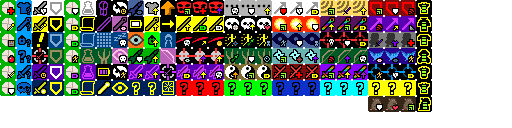
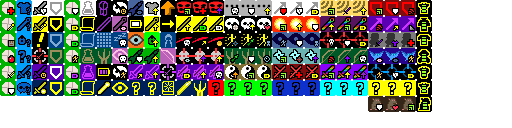
v3.0.0: added the holy lance spell

Changed region(s): [[0.3438, 0.625, 0.4062, 0.75]]

diff --git a/core/src/main/java/com/shatteredpixel/shatteredpixeldungeon/actors/hero/spells/HolyLance.java b/core/src/main/java/com/shatteredpixel/shatteredpixeldungeon/actors/hero/spells/HolyLance.java
@@ -1,0 +1,169 @@
+/*
+ * Pixel Dungeon
+ * Copyright (C) 2012-2015 Oleg Dolya
+ *
+ * Shattered Pixel Dungeon
+ * Copyright (C) 2014-2024 Evan Debenham
+ *
+ * This program is free software: you can redistribute it and/or modify
+ * it under the terms of the GNU General Public License as published by
+ * the Free Software Foundation, either version 3 of the License, or
+ * (at your option) any later version.
+ *
+ * This program is distributed in the hope that it will be useful,
+ * but WITHOUT ANY WARRANTY; without even the implied warranty of
+ * MERCHANTABILITY or FITNESS FOR A PARTICULAR PURPOSE.  See the
+ * GNU General Public License for more details.
+ *
+ * You should have received a copy of the GNU General Public License
+ * along with this program.  If not, see <http://www.gnu.org/licenses/>
+ */
+
+package com.shatteredpixel.shatteredpixeldungeon.actors.hero.spells;
+
+import com.shatteredpixel.shatteredpixeldungeon.Assets;
+import com.shatteredpixel.shatteredpixeldungeon.Dungeon;
+import com.shatteredpixel.shatteredpixeldungeon.actors.Actor;
+import com.shatteredpixel.shatteredpixeldungeon.actors.Char;
+import com.shatteredpixel.shatteredpixeldungeon.actors.buffs.FlavourBuff;
+import com.shatteredpixel.shatteredpixeldungeon.actors.hero.Hero;
+import com.shatteredpixel.shatteredpixeldungeon.actors.hero.Talent;
+import com.shatteredpixel.shatteredpixeldungeon.effects.Splash;
+import com.shatteredpixel.shatteredpixeldungeon.effects.particles.SparkParticle;
+import com.shatteredpixel.shatteredpixeldungeon.items.Item;
+import com.shatteredpixel.shatteredpixeldungeon.items.artifacts.HolyTome;
+import com.shatteredpixel.shatteredpixeldungeon.items.wands.Wand;
+import com.shatteredpixel.shatteredpixeldungeon.mechanics.Ballistica;
+import com.shatteredpixel.shatteredpixeldungeon.messages.Messages;
+import com.shatteredpixel.shatteredpixeldungeon.sprites.ItemSprite;
+import com.shatteredpixel.shatteredpixeldungeon.sprites.ItemSpriteSheet;
+import com.shatteredpixel.shatteredpixeldungeon.sprites.MissileSprite;
+import com.shatteredpixel.shatteredpixeldungeon.ui.BuffIndicator;
+import com.shatteredpixel.shatteredpixeldungeon.ui.HeroIcon;
+import com.shatteredpixel.shatteredpixeldungeon.utils.GLog;
+import com.watabou.noosa.Image;
+import com.watabou.noosa.audio.Sample;
+import com.watabou.noosa.particles.Emitter;
+import com.watabou.utils.Callback;
+import com.watabou.utils.Random;
+
+public class HolyLance extends TargetedClericSpell {
+
+	public static final HolyLance INSTANCE = new HolyLance();
+
+	@Override
+	public int icon() {
+		return HeroIcon.HOLY_LANCE;
+	}
+
+	@Override
+	public String desc() {
+		int min = 15 + 15*Dungeon.hero.pointsInTalent(Talent.HOLY_LANCE);
+		int max = Math.round(27.5f + 27.5f*Dungeon.hero.pointsInTalent(Talent.HOLY_LANCE));
+		return Messages.get(this, "desc", min, max) + "\n\n" + Messages.get(this, "charge_cost", (int)chargeUse(Dungeon.hero));
+	}
+
+	@Override
+	public boolean canCast(Hero hero) {
+		return super.canCast(hero) && hero.buff(LanceCooldown.class) == null;
+	}
+
+	@Override
+	public float chargeUse(Hero hero) {
+		return 4;
+	}
+
+	@Override
+	protected void onTargetSelected(HolyTome tome, Hero hero, Integer target) {
+		if (target == null){
+			return;
+		}
+
+		Ballistica aim = new Ballistica(hero.pos, target, Ballistica.PROJECTILE);
+
+		if (Actor.findChar( aim.collisionPos ) == hero){
+			GLog.i( Messages.get(Wand.class, "self_target") );
+			return;
+		}
+
+		hero.sprite.zap( target );
+		hero.busy();
+
+		Sample.INSTANCE.play(Assets.Sounds.ZAP);
+
+		Char enemy = Actor.findChar(aim.collisionPos);
+		if (enemy != null) {
+			((MissileSprite) hero.sprite.parent.recycle(MissileSprite.class)).
+					reset(hero.sprite,
+							enemy.sprite,
+							new HolyLanceVFX(),
+							new Callback() {
+								@Override
+								public void call() {
+									int min = 15 + 15*Dungeon.hero.pointsInTalent(Talent.HOLY_LANCE);
+									int max = Math.round(27.5f + 27.5f*Dungeon.hero.pointsInTalent(Talent.HOLY_LANCE));
+									if (Char.hasProp(enemy, Char.Property.UNDEAD) || Char.hasProp(enemy, Char.Property.DEMONIC)){
+										min = max;
+									}
+									enemy.damage(Random.NormalIntRange(min, max), HolyLance.this);
+									Sample.INSTANCE.play( Assets.Sounds.HIT_MAGIC, 1, Random.Float(0.8f, 1f) );
+									Sample.INSTANCE.play( Assets.Sounds.HIT_STAB, 1, Random.Float(0.8f, 1f) );
+
+									enemy.sprite.burst(0xFFFFFFFF, 10);
+									hero.spendAndNext(1f);
+									FlavourBuff.affect(hero, LanceCooldown.class, 50f);
+								}
+							});
+		} else {
+			((MissileSprite) hero.sprite.parent.recycle(MissileSprite.class)).
+					reset(hero.sprite,
+							target,
+							new HolyLanceVFX(),
+							new Callback() {
+								@Override
+								public void call() {
+									Splash.at(target, 0xFFFFFFFF, 10);
+									hero.spendAndNext(1f);
+									FlavourBuff.affect(hero, LanceCooldown.class, 50f);
+								}
+							});
+		}
+
+	}
+
+	public static class HolyLanceVFX extends Item {
+
+		{
+			image = ItemSpriteSheet.THROWING_SPIKE;
+		}
+
+		@Override
+		public ItemSprite.Glowing glowing() {
+			return new ItemSprite.Glowing(0xFFFFFF, 0.1f);
+		}
+
+		@Override
+		public Emitter emitter() {
+			Emitter emitter = new Emitter();
+			emitter.pos( 5, 5, 0, 0);
+			emitter.fillTarget = false;
+			emitter.pour(SparkParticle.FACTORY, 0.025f);
+			return emitter;
+		}
+	}
+
+	public static class LanceCooldown extends FlavourBuff {
+
+		@Override
+		public int icon() {
+			return BuffIndicator.TIME;
+		}
+
+		@Override
+		public void tintIcon(Image icon) {
+			icon.hardlight(0.67f, 0.67f, 0);
+		}
+
+		public float iconFadePercent() { return Math.max(0, visualcooldown() / 50); }
+	}
+}

diff --git a/core/src/main/java/com/shatteredpixel/shatteredpixeldungeon/actors/hero/spells/ClericSpell.java b/core/src/main/java/com/shatteredpixel/shatteredpixeldungeon/actors/hero/spells/ClericSpell.java
@@ -26,6 +26,7 @@ import com.shatteredpixel.shatteredpixeldungeon.actors.buffs.Barrier;
 import com.shatteredpixel.shatteredpixeldungeon.actors.buffs.Buff;
 import com.shatteredpixel.shatteredpixeldungeon.actors.buffs.Invisibility;
 import com.shatteredpixel.shatteredpixeldungeon.actors.hero.Hero;
+import com.shatteredpixel.shatteredpixeldungeon.actors.hero.HeroSubClass;
 import com.shatteredpixel.shatteredpixeldungeon.actors.hero.Talent;
 import com.shatteredpixel.shatteredpixeldungeon.items.artifacts.HolyTome;
 import com.shatteredpixel.shatteredpixeldungeon.messages.Messages;
@@ -99,6 +100,20 @@ public abstract class ClericSpell {
 
 			if (cleric.hasTalent(Talent.DIVINE_SENSE)) {
 				spells.add(DivineSense.INSTANCE);
+			}
+
+		} else if (tier == 3){
+
+			if (cleric.subClass == HeroSubClass.PRIEST) {
+				//TODO innate radiance spell
+
+				if (cleric.hasTalent(Talent.HOLY_LANCE)){
+					spells.add(HolyLance.INSTANCE);
+				}
+
+			} else if (cleric.subClass == HeroSubClass.PALADIN){
+				//TODO innate smite spell
+
 			}
 
 		}

diff --git a/core/src/main/java/com/shatteredpixel/shatteredpixeldungeon/items/armor/glyphs/AntiMagic.java b/core/src/main/java/com/shatteredpixel/shatteredpixeldungeon/items/armor/glyphs/AntiMagic.java
@@ -32,6 +32,7 @@ import com.shatteredpixel.shatteredpixeldungeon.actors.hero.abilities.duelist.El
 import com.shatteredpixel.shatteredpixeldungeon.actors.hero.abilities.mage.ElementalBlast;
 import com.shatteredpixel.shatteredpixeldungeon.actors.hero.abilities.mage.WarpBeacon;
 import com.shatteredpixel.shatteredpixeldungeon.actors.hero.spells.GuidingLight;
+import com.shatteredpixel.shatteredpixeldungeon.actors.hero.spells.HolyLance;
 import com.shatteredpixel.shatteredpixeldungeon.actors.hero.spells.HolyWeapon;
 import com.shatteredpixel.shatteredpixeldungeon.actors.hero.spells.Sunray;
 import com.shatteredpixel.shatteredpixeldungeon.actors.mobs.CrystalWisp;
@@ -94,6 +95,7 @@ public class AntiMagic extends Armor.Glyph {
 		RESISTS.add( GuidingLight.class );
 		RESISTS.add( HolyWeapon.class );
 		RESISTS.add( Sunray.class );
+		RESISTS.add( HolyLance.class );
 
 		RESISTS.add( ElementalBlast.class );
 		RESISTS.add( CursedWand.class );

diff --git a/core/src/main/java/com/shatteredpixel/shatteredpixeldungeon/actors/hero/Talent.java b/core/src/main/java/com/shatteredpixel/shatteredpixeldungeon/actors/hero/Talent.java
@@ -181,7 +181,7 @@ public enum Talent {
 	//Cleric T3
 	CLERICT3A(169, 3), LIGHT_READING(170, 3),
 	//Priest T3
-	PRIESTT3A(171, 3), PRIESTT3B(172, 3), PRIESTT3C(173, 3),
+	HOLY_LANCE(171, 3), PRIESTT3B(172, 3), PRIESTT3C(173, 3),
 	//Paladin T3
 	PALADINT3A(174, 3), PALADINT3B(175, 3), PALADINT3C(176, 3),
 	//Cleric A1 T4
@@ -1025,7 +1025,7 @@ public enum Talent {
 				Collections.addAll(tierTalents, UNENCUMBERED_SPIRIT, MONASTIC_VIGOR, COMBINED_ENERGY);
 				break;
 			case PRIEST:
-				Collections.addAll(tierTalents, PRIESTT3A, PRIESTT3B, PRIESTT3C);
+				Collections.addAll(tierTalents, HOLY_LANCE, PRIESTT3B, PRIESTT3C);
 				break;
 			case PALADIN:
 				Collections.addAll(tierTalents, PALADINT3A, PALADINT3B, PALADINT3C);

diff --git a/core/src/main/java/com/shatteredpixel/shatteredpixeldungeon/sprites/MissileSprite.java b/core/src/main/java/com/shatteredpixel/shatteredpixeldungeon/sprites/MissileSprite.java
@@ -22,6 +22,7 @@
 package com.shatteredpixel.shatteredpixeldungeon.sprites;
 
 import com.shatteredpixel.shatteredpixeldungeon.Dungeon;
+import com.shatteredpixel.shatteredpixeldungeon.actors.hero.spells.HolyLance;
 import com.shatteredpixel.shatteredpixeldungeon.actors.mobs.GnollGeomancer;
 import com.shatteredpixel.shatteredpixeldungeon.items.Item;
 import com.shatteredpixel.shatteredpixeldungeon.items.weapon.SpiritBow;
@@ -101,6 +102,7 @@ public class MissileSprite extends ItemSprite implements Tweener.Listener {
 		
 		ANGULAR_SPEEDS.put(SpiritBow.SpiritArrow.class,       0);
 		ANGULAR_SPEEDS.put(ScorpioSprite.ScorpioShot.class,   0);
+		ANGULAR_SPEEDS.put(HolyLance.HolyLanceVFX.class,      0);
 		
 		//720 is default
 

diff --git a/core/src/main/java/com/shatteredpixel/shatteredpixeldungeon/ui/HeroIcon.java b/core/src/main/java/com/shatteredpixel/shatteredpixeldungeon/ui/HeroIcon.java
@@ -81,6 +81,7 @@ public class HeroIcon extends Image {
 	public static final int SUNRAY          = 45;
 	public static final int DIVINE_SENSE    = 46;
 	public static final int RECALL_GLYPH    = 47;
+	public static final int HOLY_LANCE      = 48;
 
 	//action indicator visuals
 	public static final int BERSERK         = 80;
